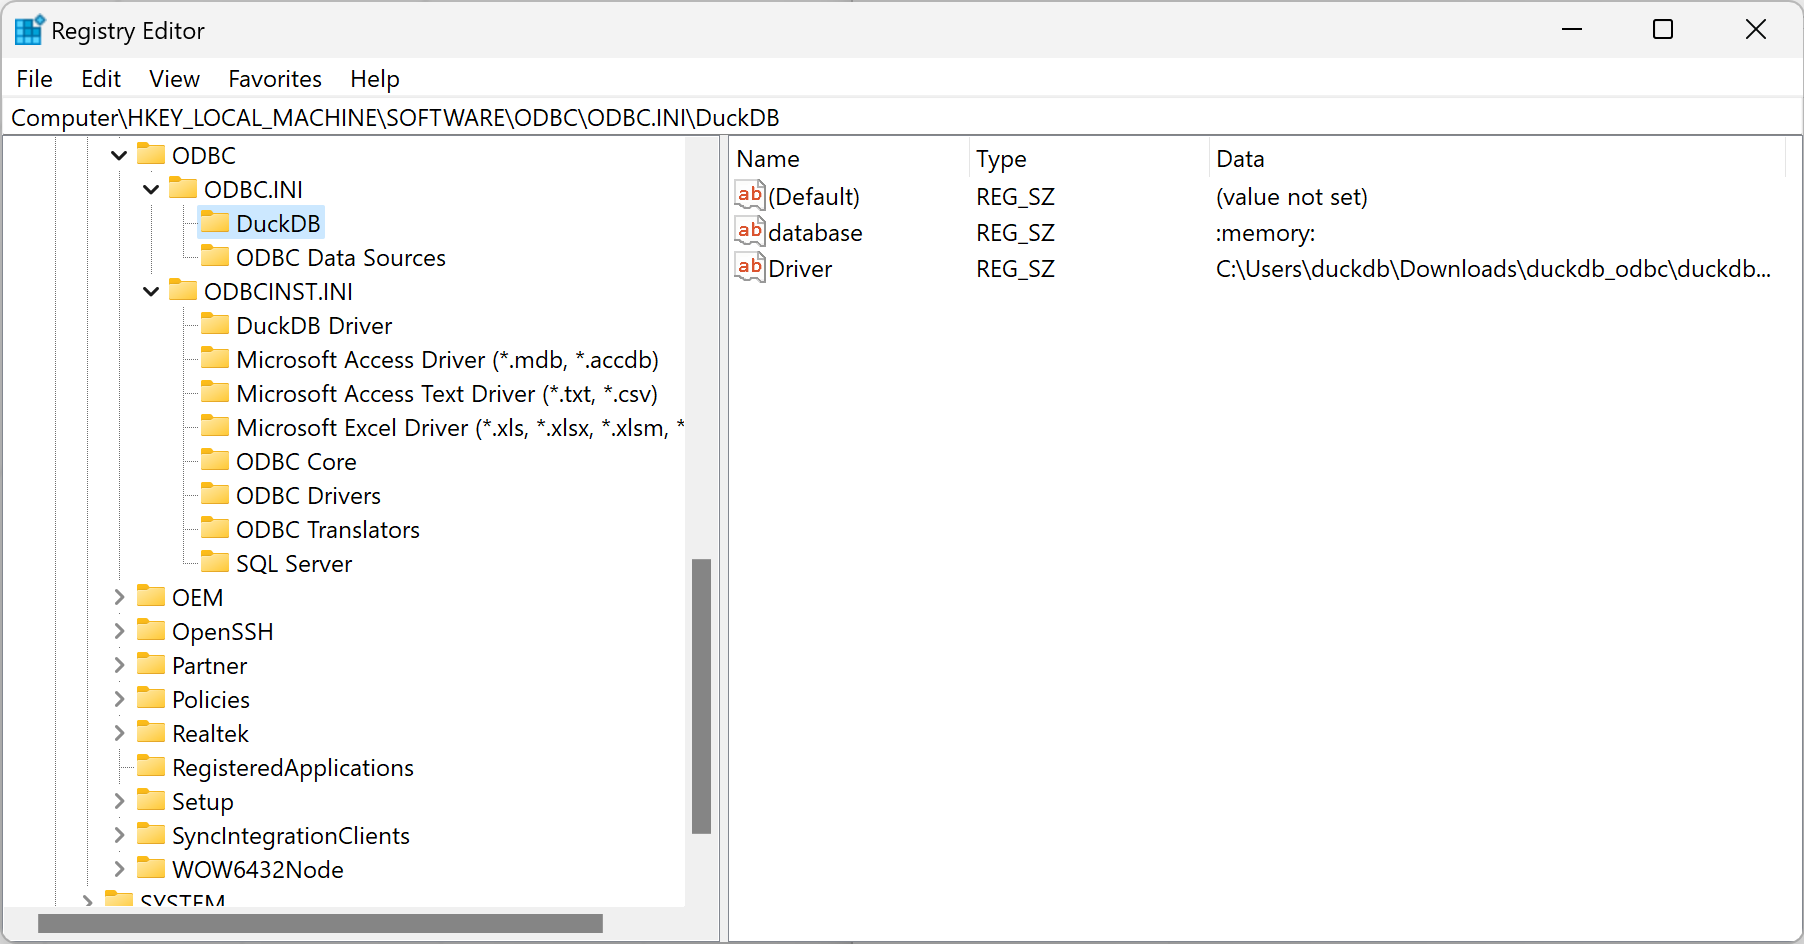
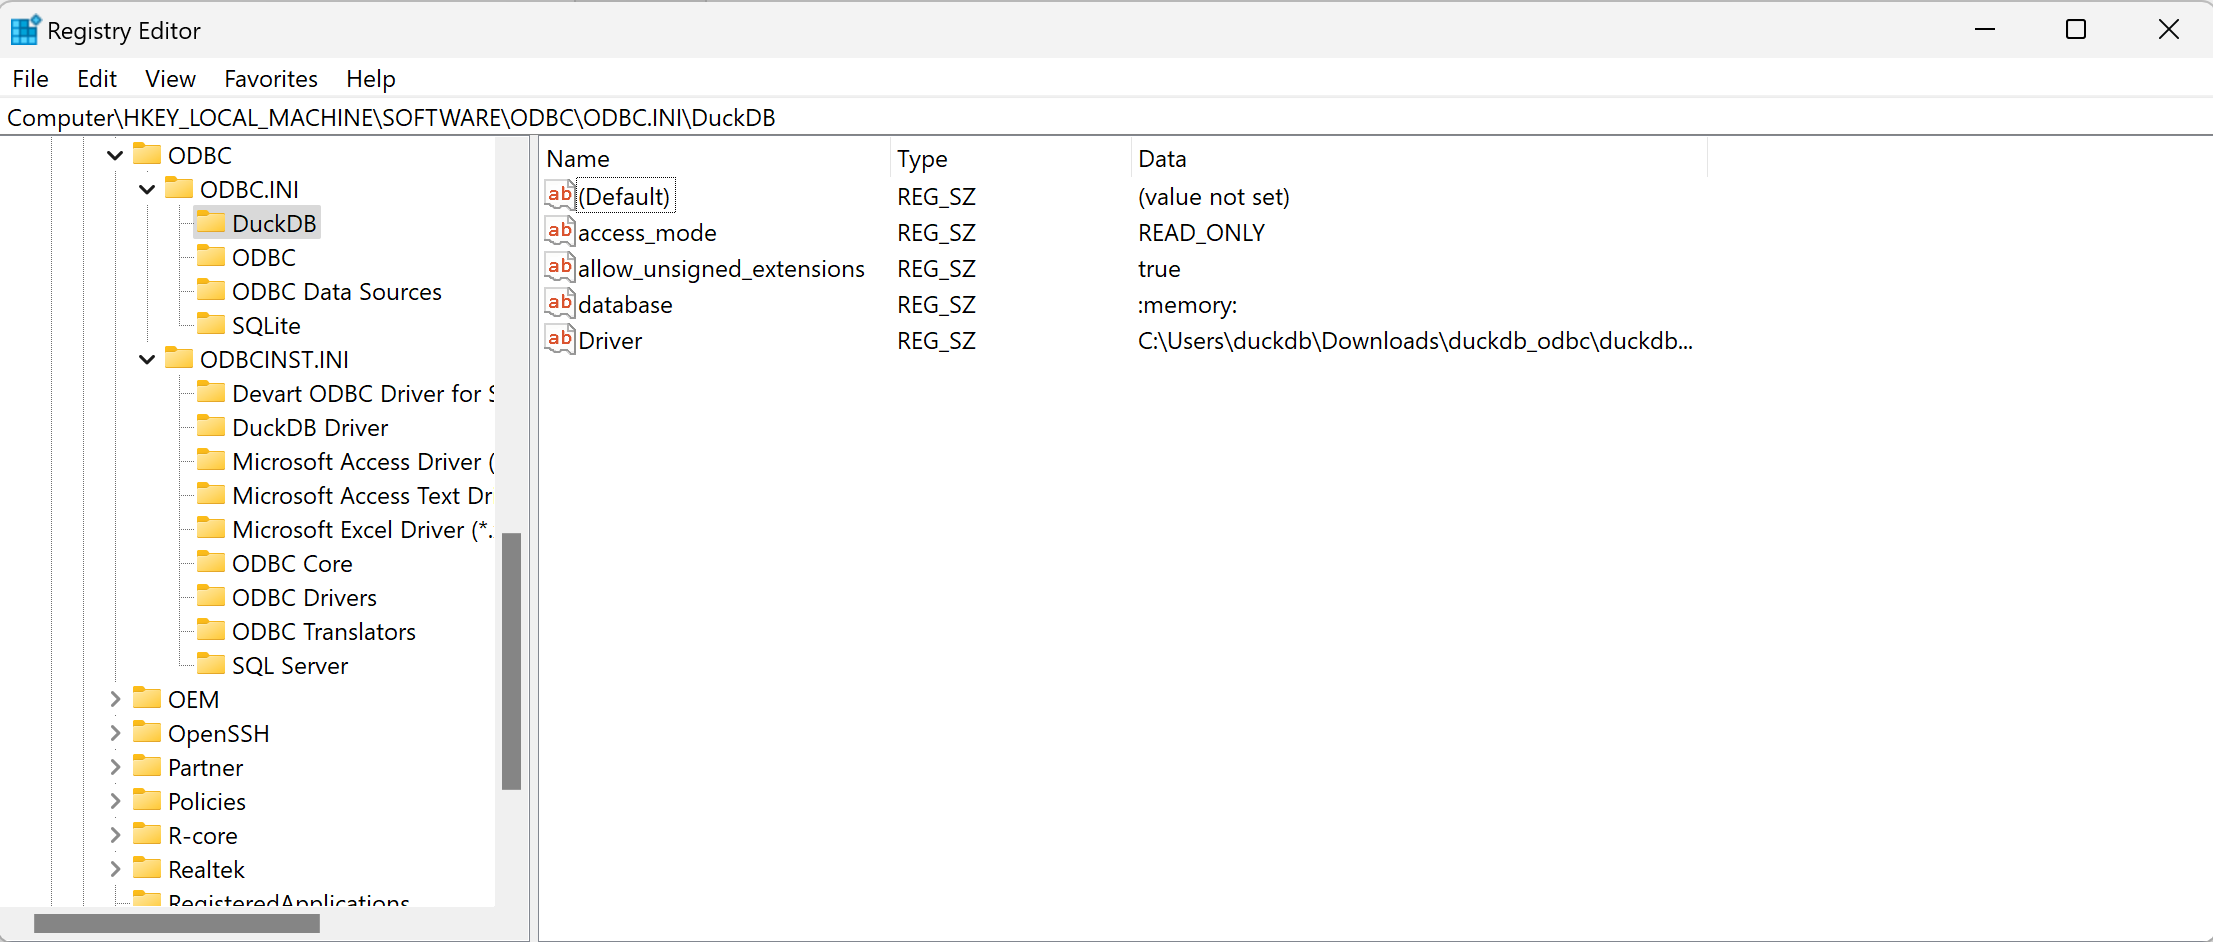
Alter docs for ODBC connection rework

Changed region(s): [[0.0, 0.0, 1.0, 1.0], [0.3725, 0.5849, 0.4035, 0.8928], [0.9933, 0.0, 1.0, 0.0308]]

diff --git a/docs/api/odbc/macos.md b/docs/api/odbc/macos.md
@@ -29,33 +29,43 @@ unzip duckdb_odbc-osx-universal.zip -d duckdb_odbc
 ```
 
 
-## Step 3:  Configure the ODBC Driver
+## Step 3: Configure the ODBC Driver
 
+There are two ways to configure the ODBC driver, either by initializing the configuration files listed below,
+or by connecting with [`SQLDriverConnect`](https://learn.microsoft.com/en-us/sql/odbc/reference/syntax/sqldriverconnect-function?view=sql-server-ver16).
+A combination of the two is also possible.
+
+Furthermore, the ODBC driver supports all the [configuration options](https://duckdb.org/docs/sql/configuration.html)
+included in DuckDB.
+
+_Note:_ if a configuration is set in both the connection string passed to `SQLDriverConnect` and in the `odbc.ini` file,
+the one passed to `SQLDriverConnect` will take precedence. 
 
 ### The `odbc.ini` or `.odbc.ini` File
 
 The `.odbc.ini` contains the DSNs for the drivers, which can have specific knobs.
 
-An example of `.odbc.ini` with DuckDB would be:
+Example of `.odbc.ini` with DuckDB:
 
 ```ini
 [DuckDB]
 Driver = DuckDB Driver
 Database=:memory:
+access_mode=read_only
+allow_unsigned_extensions=true
 ```
-
-**[DuckDB]**: between the brackets is a DSN for the DuckDB.
-
-**Driver**: it describes the driver's name, and other configurations will be placed at the **.odbcinst.ini**.
-
-**Database**: it describes the database name used by DuckDB, and it can also be a file path to a `.db` in the system.
+* `[DuckDB]`: between the brackets is a DSN for the DuckDB.
+* `Driver`: Describes the driver's name, as well as where to find the configurations in the **.odbcinst.ini**.
+* `Database`: Describes the database name used by DuckDB, can also be a file path to a `.db` in the system.
+* `access_mode`: The mode in which to connect to the database
+* `allow_unsigned_extensions`: Allow the use of unsigned extensions
 
 ### The `.odbcinst.ini` File
 
 The `.odbcinst.ini` contains general configurations for the ODBC installed drivers in the system.
 A driver section starts with the driver name between brackets, and then it follows specific configuration knobs belonging to that driver.
 
-An example of `.odbcinst.ini` with the DuckDB driver would be:
+Example of `.odbcinst.ini` with the DuckDB:
 
 ```ini
 [ODBC]
@@ -66,17 +76,11 @@ TraceFile = /tmp/odbctrace
 Driver = /User/<user>/duckdb_odbc/libduckdb_odbc.dylib
 ```
 
-
-**[ODBC]**: it is the DM configuration section.
-
-**Trace**: it enables the ODBC trace file using the option `yes`.
-
-**TraceFile**: the absolute system file path for the ODBC trace file.
-
-
-**[DuckDB Driver]**: the section of the DuckDB installed driver.
-
-**Driver**: the absolute system file path of the DuckDB driver.
+* `[ODBC]`: it is the DM configuration section.
+* `Trace`: it enables the ODBC trace file using the option `yes`.
+* `TraceFile`: the absolute system file path for the ODBC trace file.
+* `[DuckDB Driver]`: the section of the DuckDB installed driver.
+* `Driver`: the absolute system file path of the DuckDB driver.
 
 ## Step 4 (Optional): Test the ODBC Driver
 

diff --git a/docs/guides/odbc/general.md b/docs/guides/odbc/general.md
@@ -124,6 +124,7 @@ LDLIBS=-L/path/to/duckdb_odbc/libduckdb_odbc.dylib
 ```
 
 ### 2. Define the ODBC Handles and Connect to the Database
+#### 2.a. Connecting with SQLConnect
 
 Then set up the ODBC handles, allocate them, and connect to the database.  First the environment handle is allocated, then the environment is set to ODBC version 3, then the connection handle is allocated, and finally the connection is made to the database.  The following code snippet shows how to do this:
 
@@ -139,6 +140,29 @@ SQLAllocHandle(SQL_HANDLE_DBC, env, &dbc);
 
 std::string dsn = "DSN=duckdbmemory";
 SQLConnect(dbc, (SQLCHAR*)dsn.c_str(), SQL_NTS, NULL, 0, NULL, 0);
+
+std::cout << "Connected!" << std::endl;
+```
+
+#### 2.b. Connecting with SQLDriverConnect
+
+Alternatively, you can connect to the ODBC driver using  [`SQLDriverConnect`](.https://learn.microsoft.com/en-us/sql/odbc/reference/syntax/sqldriverconnect-function?view=sql-server-ver16).
+`SQLDriverConnect` accepts a connection string in which you can configure the database using any of the available [DuckDB configuration options](https://duckdb.org/docs/sql/configuration.html).
+
+```cpp
+SQLHANDLE env;
+SQLHANDLE dbc;
+
+SQLAllocHandle(SQL_HANDLE_ENV, SQL_NULL_HANDLE, &env);
+
+SQLSetEnvAttr(env, SQL_ATTR_ODBC_VERSION, (void*)SQL_OV_ODBC3, 0);
+
+SQLAllocHandle(SQL_HANDLE_DBC, env, &dbc);
+
+SQLCHAR str[1024];
+SQLSMALLINT strl;
+std::string dsn = "DSN=DuckDB;allow_unsigned_extensions=true;access_mode=READ_ONLY"
+SQLDriverConnect(dbc, nullptr, (SQLCHAR*)dsn.c_str(), SQL_NTS, str, sizeof(str), &strl, SQL_DRIVER_COMPLETE)
 
 std::cout << "Connected!" << std::endl;
 ```

diff --git a/docs/api/odbc/windows.md b/docs/api/odbc/windows.md
@@ -70,6 +70,18 @@ This window allows you to set the DSN and the database file path associated with
 
 ## More Detailed Windows Setup
 
+There are two ways to configure the ODBC driver, either by altering the registry keys as detailed below,
+or by connecting with [`SQLDriverConnect`](https://learn.microsoft.com/en-us/sql/odbc/reference/syntax/sqldriverconnect-function?view=sql-server-ver16).
+A combination of the two is also possible.
+
+Furthermore, the ODBC driver supports all the [configuration options](https://duckdb.org/docs/sql/configuration.html)
+included in DuckDB.
+
+_Note:_ if a configuration is set in both the connection string passed to `SQLDriverConnect` and in the `odbc.ini` file,
+the one passed to `SQLDriverConnect` will take precedence.
+
+### Registry Keys
+
 The ODBC setup on Windows is based on registry keys (see [Registry Entries for ODBC Components
 ](https://docs.microsoft.com/en-us/sql/odbc/reference/install/registry-entries-for-odbc-components?view=sql-server-ver15)).
 The ODBC entries can be placed at the current user registry key (`HKCU`) or the system registry key (`HKLM`).
@@ -82,6 +94,5 @@ The `ODBC.INI` is where users usually insert DSN registry entries for the driver
 For example, the DSN registry for DuckDB would look like this:
 
 ![`HKLM->SOFTWARE->ODBC->ODBC.INI->DuckDB`](/images/blog/odbc/odbc_ini-registry-entry.png)
-
 
 The `ODBCINST.INI` contains one entry for each ODBC driver and other keys predefined for [Windows ODBC configuration](https://docs.microsoft.com/en-us/sql/odbc/reference/install/registry-entries-for-odbc-components?view=sql-server-ver15).
